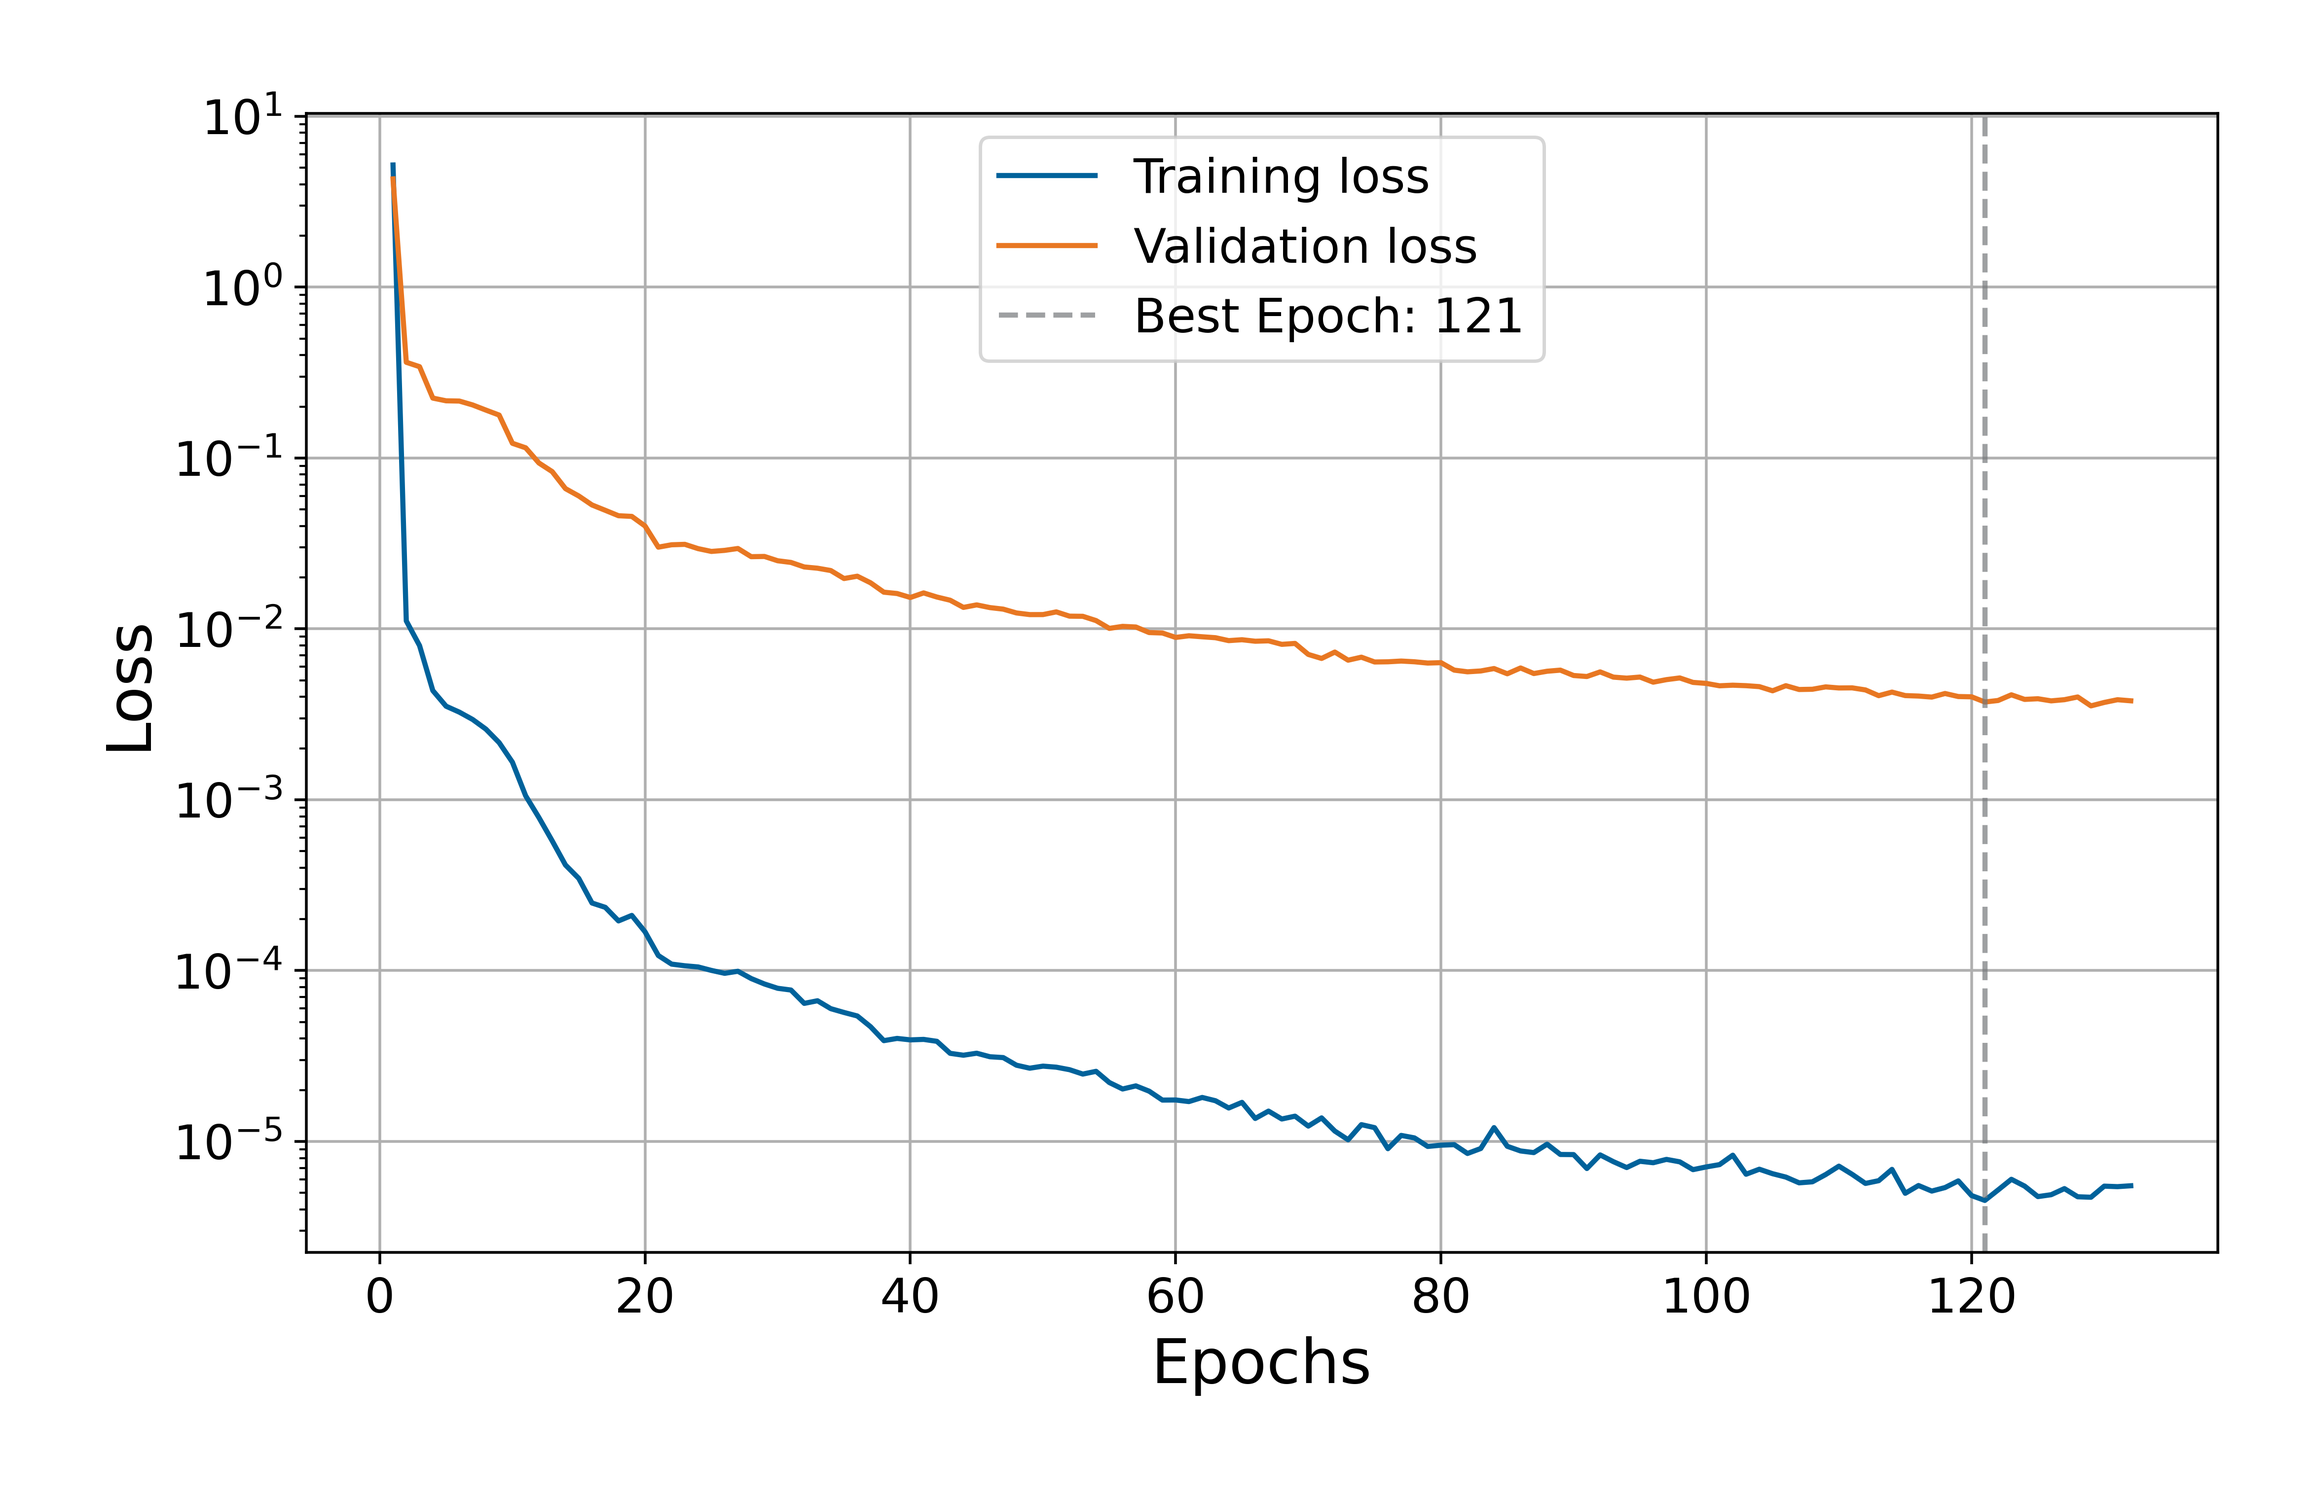
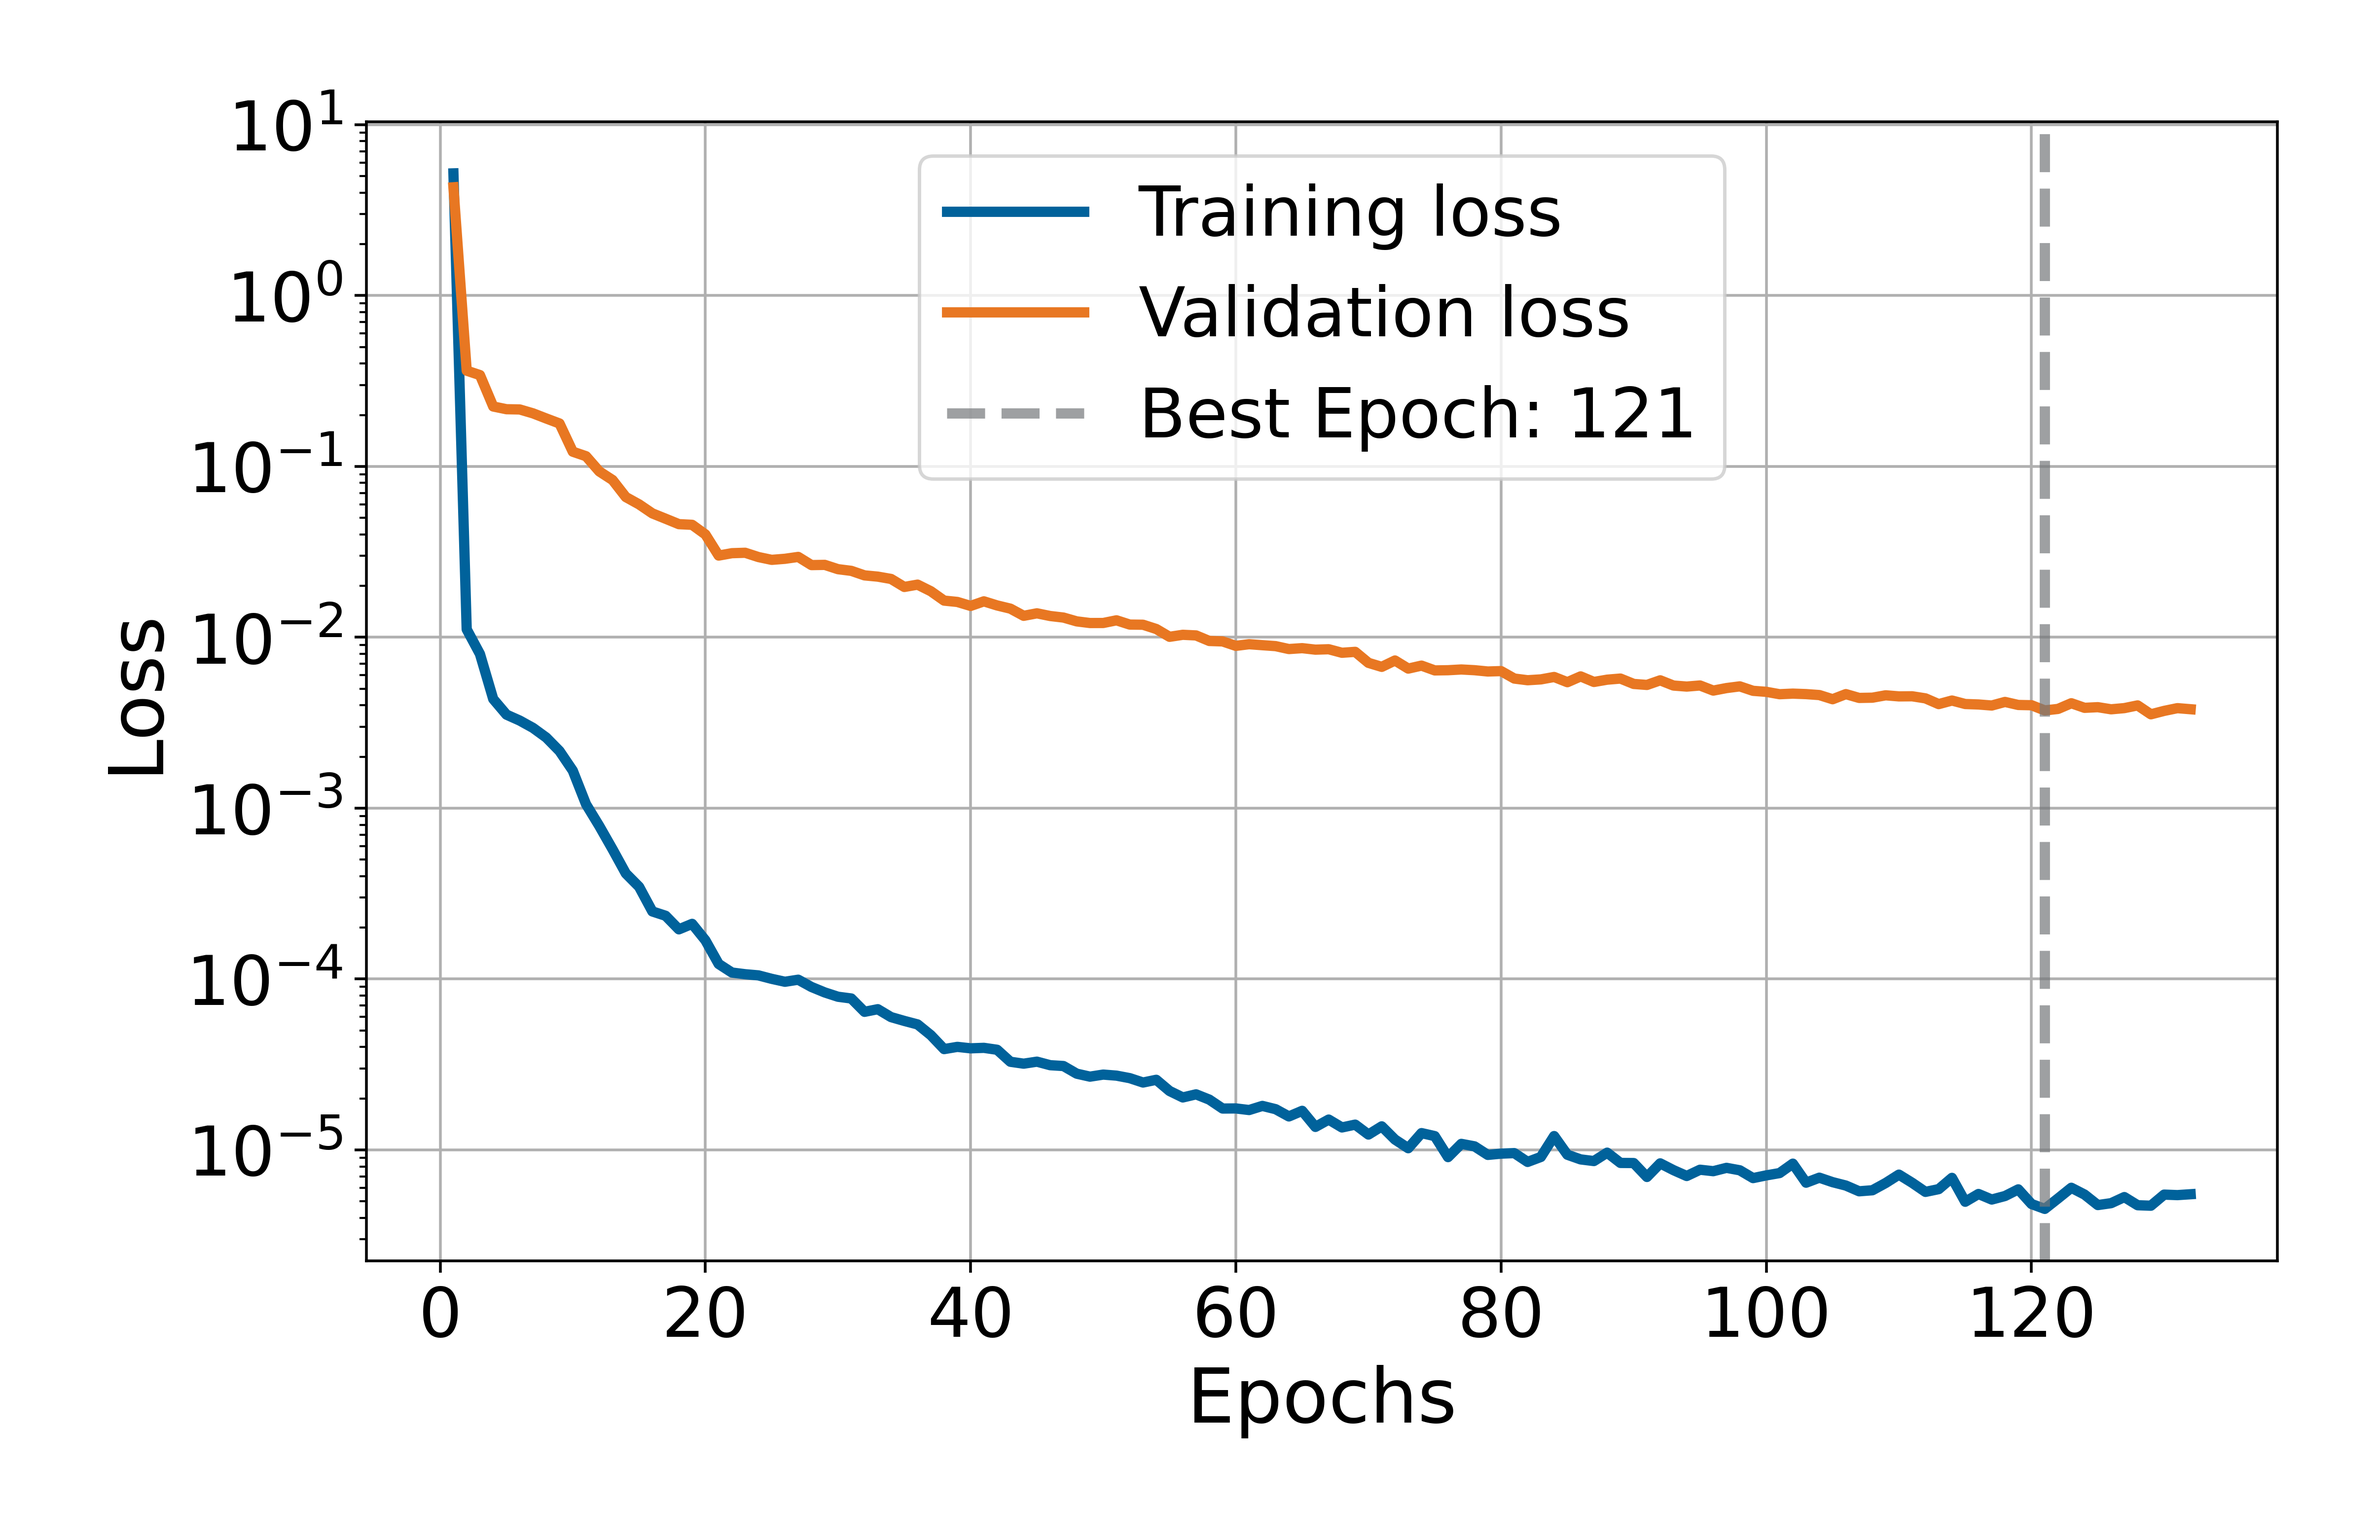
Poisson example done

diff --git a/plotting.py b/plotting.py
@@ -80,17 +80,17 @@ def plot_loss(
         created_figure = True
 
     epochs = list(range(1, len(loss_history) + 1))
-    ax.plot(epochs, loss_history, label = 'Training loss', color = '#00629B')
-    ax.plot(epochs, val_loss_history, label = 'Validation loss', color = '#E87722')
+    ax.plot(epochs, loss_history, label = 'Training loss', color = '#00629B', linewidth = 3)
+    ax.plot(epochs, val_loss_history, label = 'Validation loss', color = '#E87722', linewidth = 3)
 
     if best_epoch and complete_training:
-        ax.axvline(best_epoch, linestyle = "--", color = '#75787B', alpha = 0.7, label = f"Best Epoch: {best_epoch}")
+        ax.axvline(best_epoch, linestyle = "--", color = '#75787B', alpha = 0.7, label = f"Best Epoch: {best_epoch}", linewidth = 3)
 
-    ax.set_xlabel('Epochs', fontsize = 18)
-    ax.set_ylabel('Loss', fontsize = 18)
+    ax.set_xlabel('Epochs', fontsize = 22)
+    ax.set_ylabel('Loss', fontsize = 22)
     ax.set_yscale('log')
-    ax.tick_params(axis = 'both', labelsize = 14)
-    ax.legend(fontsize = 14)
+    ax.tick_params(axis = 'both', labelsize = 20)
+    ax.legend(fontsize = 20)
     ax.grid(True)
 
     if filename:
@@ -160,8 +160,10 @@ def plot_solution_square(
 
     # Plot the surface.
     ax.plot_surface(grid_1.numpy(), grid_2.numpy(), Z.detach().numpy(), cmap = 'winter', edgecolor = 'none')
-    ax.set_xlabel(r'$x$', fontsize = 12)
-    ax.set_ylabel(r'$y$', fontsize = 12) if not time_dependent else ax.set_ylabel(r'$t$', fontsize = 12)
+    ax.set_xlabel(r'$x$', fontsize = 15)
+    ax.set_ylabel(r'$y$', fontsize = 15) if not time_dependent else ax.set_ylabel(r'$t$', fontsize = 15)
+    ax.tick_params(axis = 'both', labelsize = 12)
+    ax.zaxis.set_tick_params(labelsize = 12)
     if time_dependent:
         if parameters:
             zlabel = r'$\boldsymbol{\hat{u}}_{w}(x,t;\theta)$'
@@ -172,7 +174,7 @@ def plot_solution_square(
             zlabel = r'$\boldsymbol{\hat{u}}_{w}(x,y;\theta)$'
         else:
             zlabel = r'$\boldsymbol{\hat{u}}_{w}(x,y)$'
-    ax.set_zlabel(zlabel, fontsize = 12)       
+    ax.set_zlabel(zlabel, fontsize = 15)
 
     # If observed data is provided in domain_kwargs, plot it as scatter points.
     if domain_kwargs.get("data_x") is not None and domain_kwargs.get("data_u") is not None:
@@ -249,8 +251,10 @@ def plot_solution_circle(
         created_figure = True
 
     ax.plot_surface(grid_1.numpy(), grid_2.numpy(), Z.numpy(), cmap = 'winter', edgecolor = 'none')
-    ax.set_xlabel(r'$x$', fontsize = 12)
-    ax.set_ylabel(r'$y$', fontsize = 12) if not time_dependent else ax.set_ylabel(r'$t$', fontsize = 12)
+    ax.set_xlabel(r'$x$', fontsize = 15)
+    ax.set_ylabel(r'$y$', fontsize = 15) if not time_dependent else ax.set_ylabel(r'$t$', fontsize = 15)
+    ax.tick_params(axis = 'both', labelsize = 12)
+    ax.zaxis.set_tick_params(labelsize = 12)
     if time_dependent:
         if parameters:
             zlabel = r'$\boldsymbol{\hat{u}}_{w}(x,t;\theta)$'
@@ -261,7 +265,7 @@ def plot_solution_circle(
             zlabel = r'$\boldsymbol{\hat{u}}_{w}(x,y;\theta)$'
         else:
             zlabel = r'$\boldsymbol{\hat{u}}_{w}(x,y)$'
-    ax.set_zlabel(zlabel, fontsize = 12)  
+    ax.set_zlabel(zlabel, fontsize = 15)
 
     if filename:
         path = os.path.join(os.path.dirname(os.path.abspath(sys.argv[0])), filename)
@@ -311,8 +315,8 @@ def plot_comparison_contour_square(
     Returns
     -------
     None
-        The function produces a composite figure with three contour plots. If `filename` is provided, the
-        figure is saved. If `ax` is not provided, the plot is displayed interactively.
+        The function produces a composite figure with three contour plots. If filename is provided, the
+        figure is saved. If ax is not provided, the plot is displayed interactively.
     """
     # Create meshgrid over the square domain.
     eje1 = torch.linspace(domain_kwargs["dim1_min"], domain_kwargs["dim1_max"], 400)
@@ -347,33 +351,33 @@ def plot_comparison_contour_square(
 
     # PINN prediction.
     cs1 = axes[0].contourf(grid_1, grid_2, Z_pinn, levels = levels, vmin = vmin, vmax = vmax)
-    axes[0].set_title('Neural Network Estimation', fontsize = 16, fontweight = 'bold')
+    axes[0].set_title('Neural Network Estimation', fontsize = 20, fontweight = 'bold')
     axes[0].set_aspect('equal')
-    axes[0].tick_params(axis = 'both', labelsize = 14)
+    axes[0].tick_params(axis = 'both', labelsize = 18)
 
     # Analytical solution.
     cs2 = axes[1].contourf(grid_1, grid_2, Z_true, levels = levels, vmin = vmin, vmax = vmax)
-    axes[1].set_title('Analytical Solution', fontsize = 16, fontweight = 'bold')
+    axes[1].set_title('Analytical Solution', fontsize = 20, fontweight = 'bold')
     axes[1].set_aspect('equal')
-    axes[1].tick_params(axis = 'both', labelsize = 14)
+    axes[1].tick_params(axis = 'both', labelsize = 18)
 
     # Absolute error.
     cs3 = axes[2].contourf(grid_1, grid_2, Z_error, levels = levels)
-    axes[2].set_title('Absolute Error', fontsize = 16, fontweight = 'bold')
+    axes[2].set_title('Absolute Error', fontsize = 20, fontweight = 'bold')
     axes[2].set_aspect('equal')
-    axes[2].tick_params(axis = 'both', labelsize = 14)
+    axes[2].tick_params(axis = 'both', labelsize = 18)
 
     # Set common labels for all subplots.
-    fig.supxlabel(r'$x$', fontsize = 16, y = 0.05)
-    fig.supylabel(r'$y$', fontsize = 16, x = 0.08) if not time_dependent else fig.supylabel(r'$t$', fontsize = 16, x = 0.08)
+    fig.supxlabel(r'$x$', fontsize = 20, y = 0.03)
+    fig.supylabel(r'$y$', fontsize = 20, x = 0.08) if not time_dependent else fig.supylabel(r'$t$', fontsize = 20, x = 0.08)
 
     # Colorbar for solution plots (left two).
     cbar_ax1 = fig.add_axes([0.92, 0.58, 0.015, 0.30])
-    fig.colorbar(cs2, cax = cbar_ax1).set_label("Solution Scale", fontsize = 13)
+    fig.colorbar(cs2, cax = cbar_ax1).set_label("Solution Scale", fontsize = 15)
 
     # Colorbar for error plot (right).
     cbar_ax2 = fig.add_axes([0.92, 0.15, 0.015, 0.30])
-    fig.colorbar(cs3, cax = cbar_ax2).set_label("Absolute Error", fontsize = 13)
+    fig.colorbar(cs3, cax = cbar_ax2).set_label("Absolute Error", fontsize = 15)
 
     # Save or display.
     if filename:
@@ -463,32 +467,32 @@ def plot_comparison_contour_circle(
 
     # PINN prediction.
     cs1 = axes[0].contourf(grid_1, grid_2, Z_pinn, levels = levels, vmin = vmin, vmax = vmax)
-    axes[0].set_title('Neural Network Estimation', fontsize = 16, fontweight = 'bold')
+    axes[0].set_title('Neural Network Estimation', fontsize = 20, fontweight = 'bold')
     axes[0].set_aspect('equal')
-    axes[0].tick_params(axis = 'both', labelsize = 14)
+    axes[0].tick_params(axis = 'both', labelsize = 18)
 
     # Analytical solution.
     cs2 = axes[1].contourf(grid_1, grid_2, Z_true, levels = levels, vmin = vmin, vmax = vmax)
-    axes[1].set_title('Analytical Solution', fontsize = 16, fontweight = 'bold')
+    axes[1].set_title('Analytical Solution', fontsize = 20, fontweight = 'bold')
     axes[1].set_aspect('equal')
-    axes[1].tick_params(axis = 'both', labelsize = 14)
+    axes[1].tick_params(axis = 'both', labelsize = 18)
 
     # Absolute error.
     cs3 = axes[2].contourf(grid_1, grid_2, Z_error, levels = levels)
-    axes[2].set_title('Absolute Error', fontsize = 16, fontweight = 'bold')
+    axes[2].set_title('Absolute Error', fontsize = 20, fontweight = 'bold')
     axes[2].set_aspect('equal')
-    axes[2].tick_params(axis = 'both', labelsize = 14)
+    axes[2].tick_params(axis = 'both', labelsize = 18)
 
     # Set common labels for all subplots.
-    fig.supxlabel(r'$x$', fontsize = 16, y = 0.05)
-    fig.supylabel(r'$y$', fontsize = 16, x = 0.08) if not time_dependent else fig.supylabel(r'$t$', fontsize = 16, x = 0.08)
+    fig.supxlabel(r'$x$', fontsize = 20, y = 0.05)
+    fig.supylabel(r'$y$', fontsize = 20, x = 0.08) if not time_dependent else fig.supylabel(r'$t$', fontsize = 20, x = 0.08)
 
     # Colorbar for solution plots (left two).
     cbar_ax1 = fig.add_axes([0.92, 0.58, 0.015, 0.30])
-    fig.colorbar(cs2, cax = cbar_ax1).set_label("Solution Scale", fontsize = 13)
+    fig.colorbar(cs2, cax = cbar_ax1).set_label("Solution Scale", fontsize = 15)
 
     cbar_ax2 = fig.add_axes([0.92, 0.15, 0.015, 0.30])
-    fig.colorbar(cs3, cax = cbar_ax2).set_label("Absolute Error", fontsize = 13)
+    fig.colorbar(cs3, cax = cbar_ax2).set_label("Absolute Error", fontsize = 15)
 
     if filename:
         path = os.path.join(os.path.dirname(os.path.abspath(sys.argv[0])), filename)
